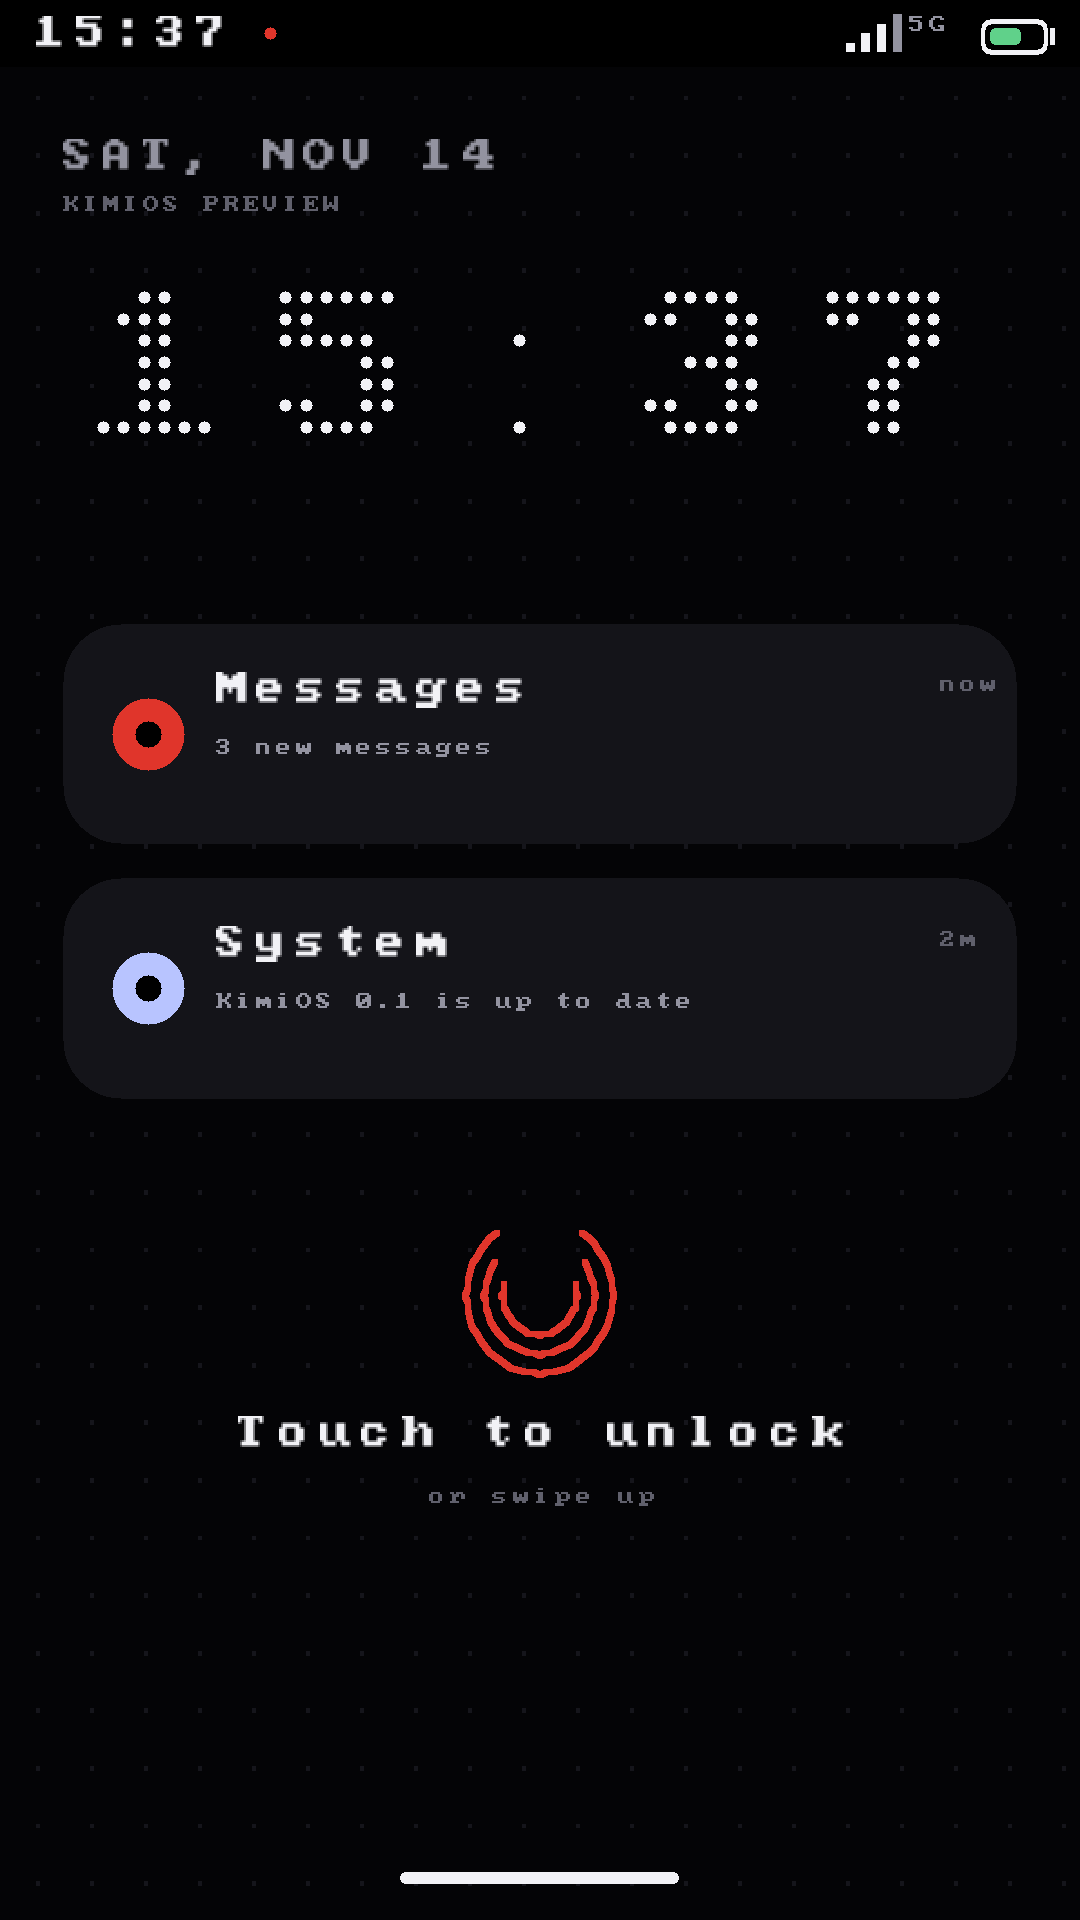
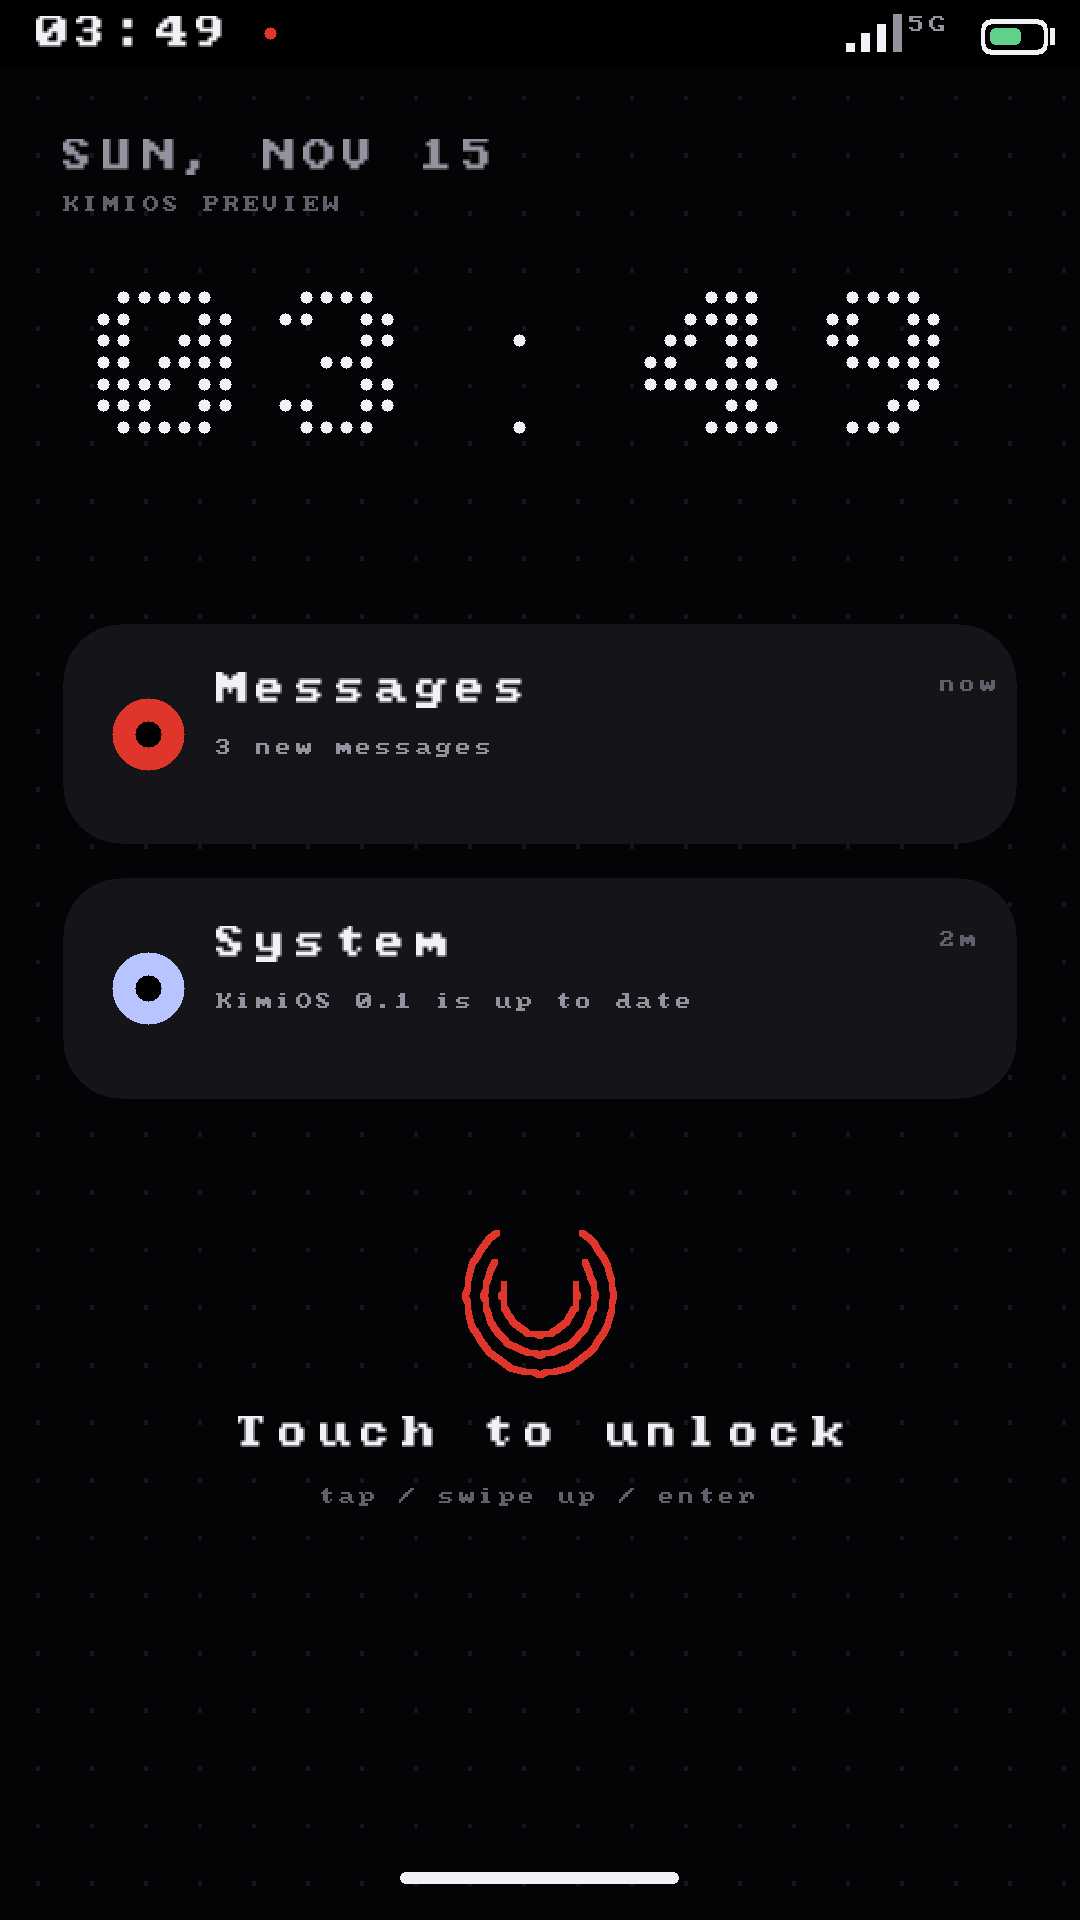
Fix lock screen input: tap, swipe, Enter, Space or Up unlocks

diff --git a/user/kimi-gui/src/main.rs b/user/kimi-gui/src/main.rs
@@ -222,6 +222,7 @@ pub extern "C" fn _start() -> ! {
     };
 
     let screen = Screen::new(base, width, height, stride);
+    while k::input_poll().is_some() {}
     let mut ui = Ui::new(screen.width(), screen.height());
     let mut last_minute = u64::MAX;
     let mut last_second = u64::MAX;
@@ -269,20 +270,28 @@ fn handle(screen: &Screen, ui: &mut Ui, event: k::InputEvent, clock: [u64; 7]) -
             ui.touch.1 = scale(event.value, height);
             false
         }
-        (k::EV_KEY, 1) if event.value != 0 => {
+        (k::EV_KEY, k::KEY_ESC) if event.value != 0 => {
             k::exit(0);
+        }
+        (k::EV_KEY, k::KEY_ENTER) | (k::EV_KEY, k::KEY_SPACE) | (k::EV_KEY, k::KEY_UP)
+            if event.value != 0 && ui.scene == Scene::Lock =>
+        {
+            unlock(screen, ui, clock);
+            true
         }
         (k::EV_KEY, k::BTN_LEFT) | (k::EV_KEY, k::BTN_TOUCH) => {
             if event.value == 0 {
                 let released = ui.press.take();
                 render(screen, ui, clock);
                 if let Some(start) = released {
-                    let dx = ui.touch.0 - start.0;
-                    let dy = ui.touch.1 - start.1;
-                    if dx * dx + dy * dy < 24 * 24 {
-                        tapped(screen, ui, ui.touch, clock);
-                    } else if !ui.shade && ui.scene == Scene::Lock && start.1 - ui.touch.1 > 70 {
+                    if ui.scene == Scene::Lock {
                         unlock(screen, ui, clock);
+                    } else {
+                        let dx = ui.touch.0 - start.0;
+                        let dy = ui.touch.1 - start.1;
+                        if dx * dx + dy * dy < 24 * 24 {
+                            tapped(screen, ui, ui.touch, clock);
+                        }
                     }
                 }
                 true
@@ -553,7 +562,7 @@ fn draw_lock(screen: &Screen, clock: [u64; 7], y_offset: i64) {
         draw_arc(screen, center, 540 + y_offset, radius, inner, outer, 3, RED);
     }
     screen.text_centered(center, 590 + y_offset, "Touch to unlock", 2, TEXT);
-    screen.text_centered(center, 620 + y_offset, "or swipe up", 1, 0x0060_606c);
+    screen.text_centered(center, 620 + y_offset, "tap / swipe up / enter", 1, 0x0060_606c);
 
     draw_home_indicator(screen);
 }

diff --git a/user/libkimi/src/lib.rs b/user/libkimi/src/lib.rs
@@ -50,6 +50,11 @@ pub const ABS_Y: u16 = 1;
 pub const BTN_LEFT: u16 = 0x110;
 pub const BTN_TOUCH: u16 = 0x14a;
 
+pub const KEY_ESC: u16 = 1;
+pub const KEY_ENTER: u16 = 28;
+pub const KEY_SPACE: u16 = 57;
+pub const KEY_UP: u16 = 103;
+
 #[derive(Clone, Copy)]
 pub struct InputEvent {
     pub kind: u16,

diff --git a/README.md b/README.md
@@ -16,7 +16,8 @@ No bootloader is used: QEMU loads the ELF directly with `-kernel`.
 | ![Calculator](docs/screenshot-calculator.png) | ![Clock](docs/screenshot-clock.png) | ![Settings](docs/screenshot-settings.png) |
 
 Run it with `-display none -device ramfb -device virtio-tablet-device` and
-`run /gui`; ESC returns to the text console.
+`run /gui`; tap or swipe up to unlock, or press Enter. ESC returns to the
+text console.
 
 ## Current features
 
@@ -1015,7 +1016,7 @@ badptr: PASS: syscall rejected the buffer
 framebuffer and a tablet:
 
 ```text
--display none -device ramfb -device virtio-tablet-device
+-display gtk -device ramfb -device virtio-keyboard-device -device virtio-tablet-device
 $ run /gui
 ```
 
